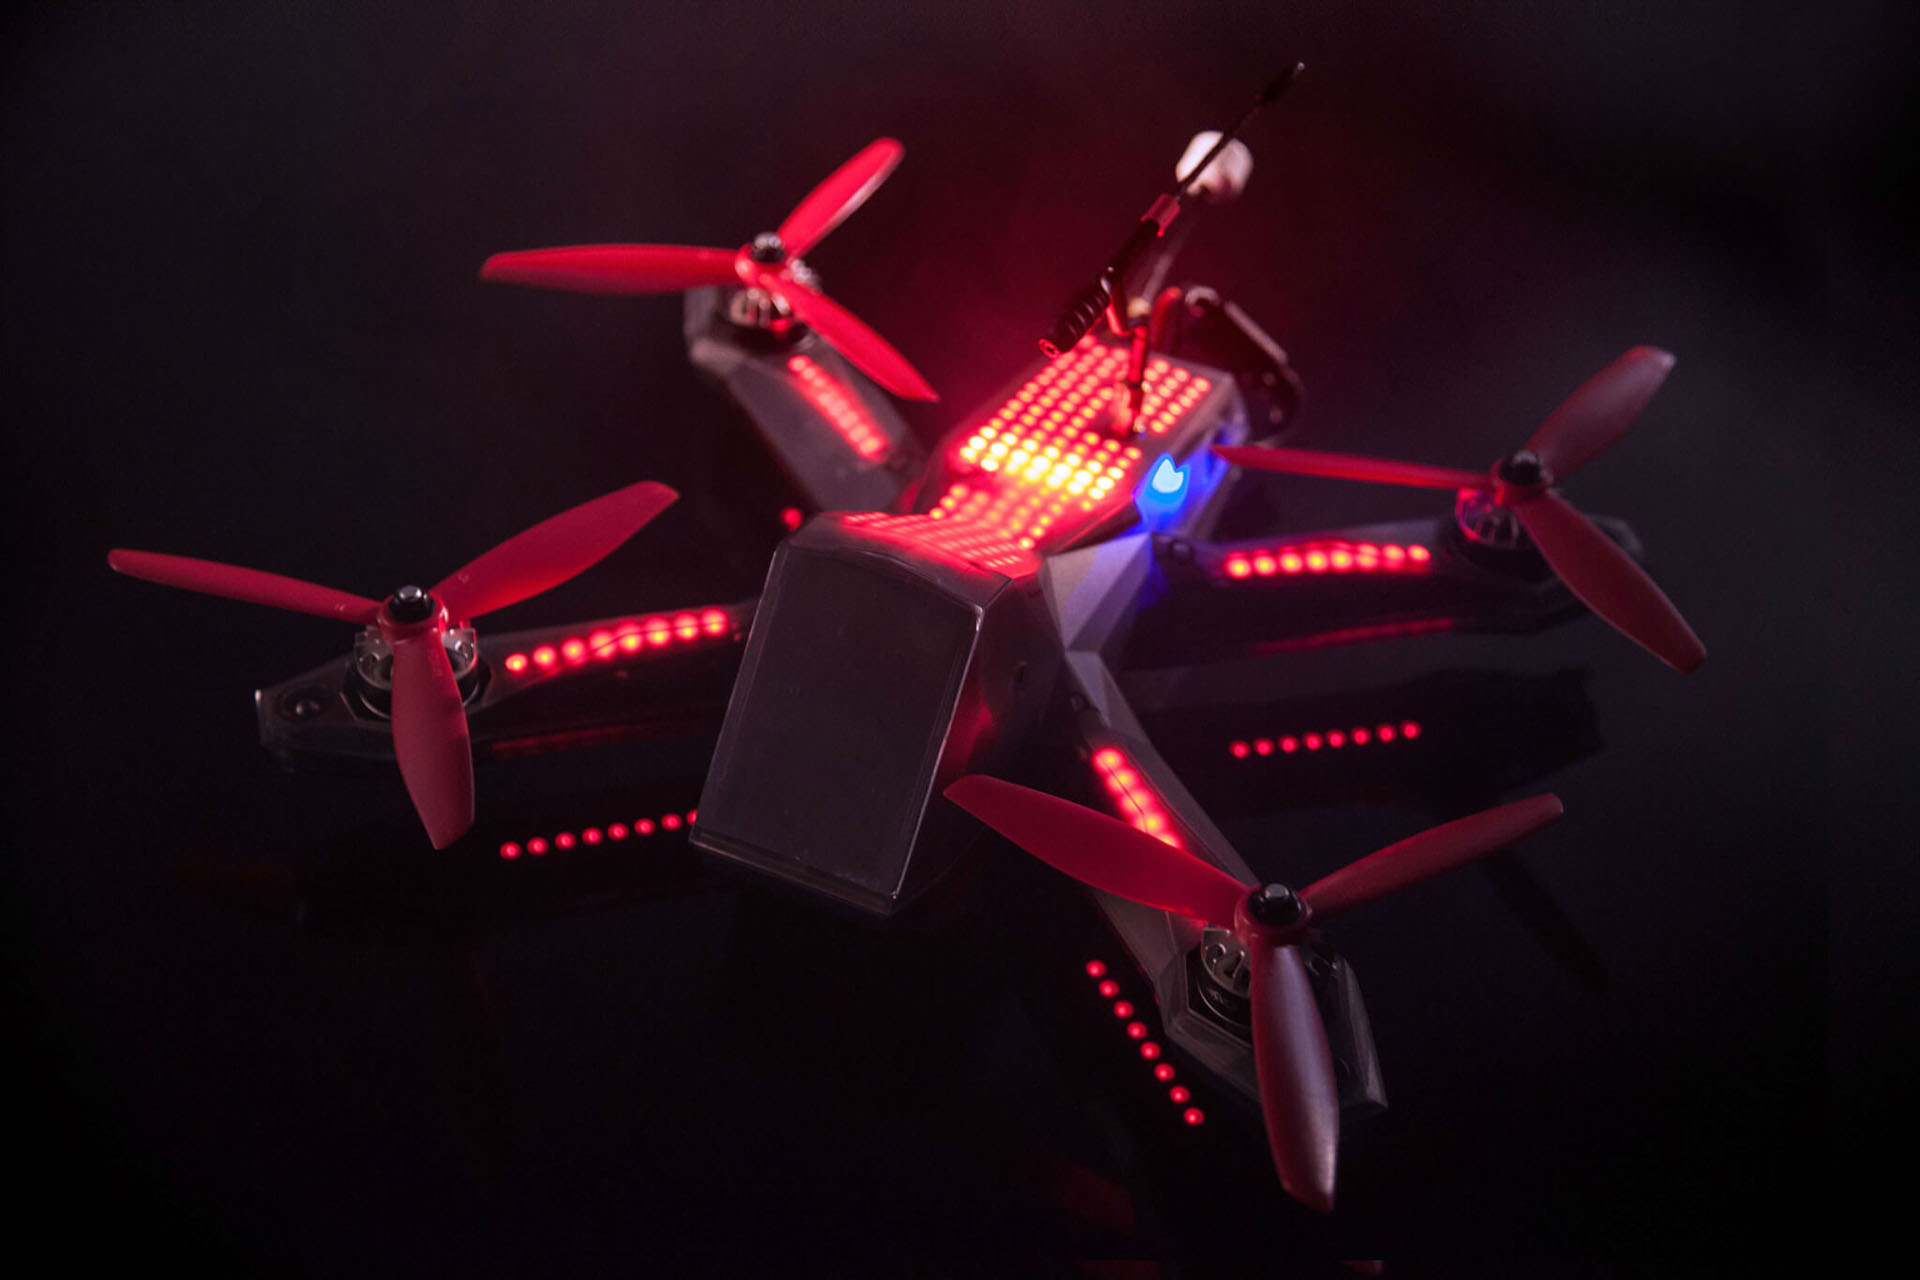
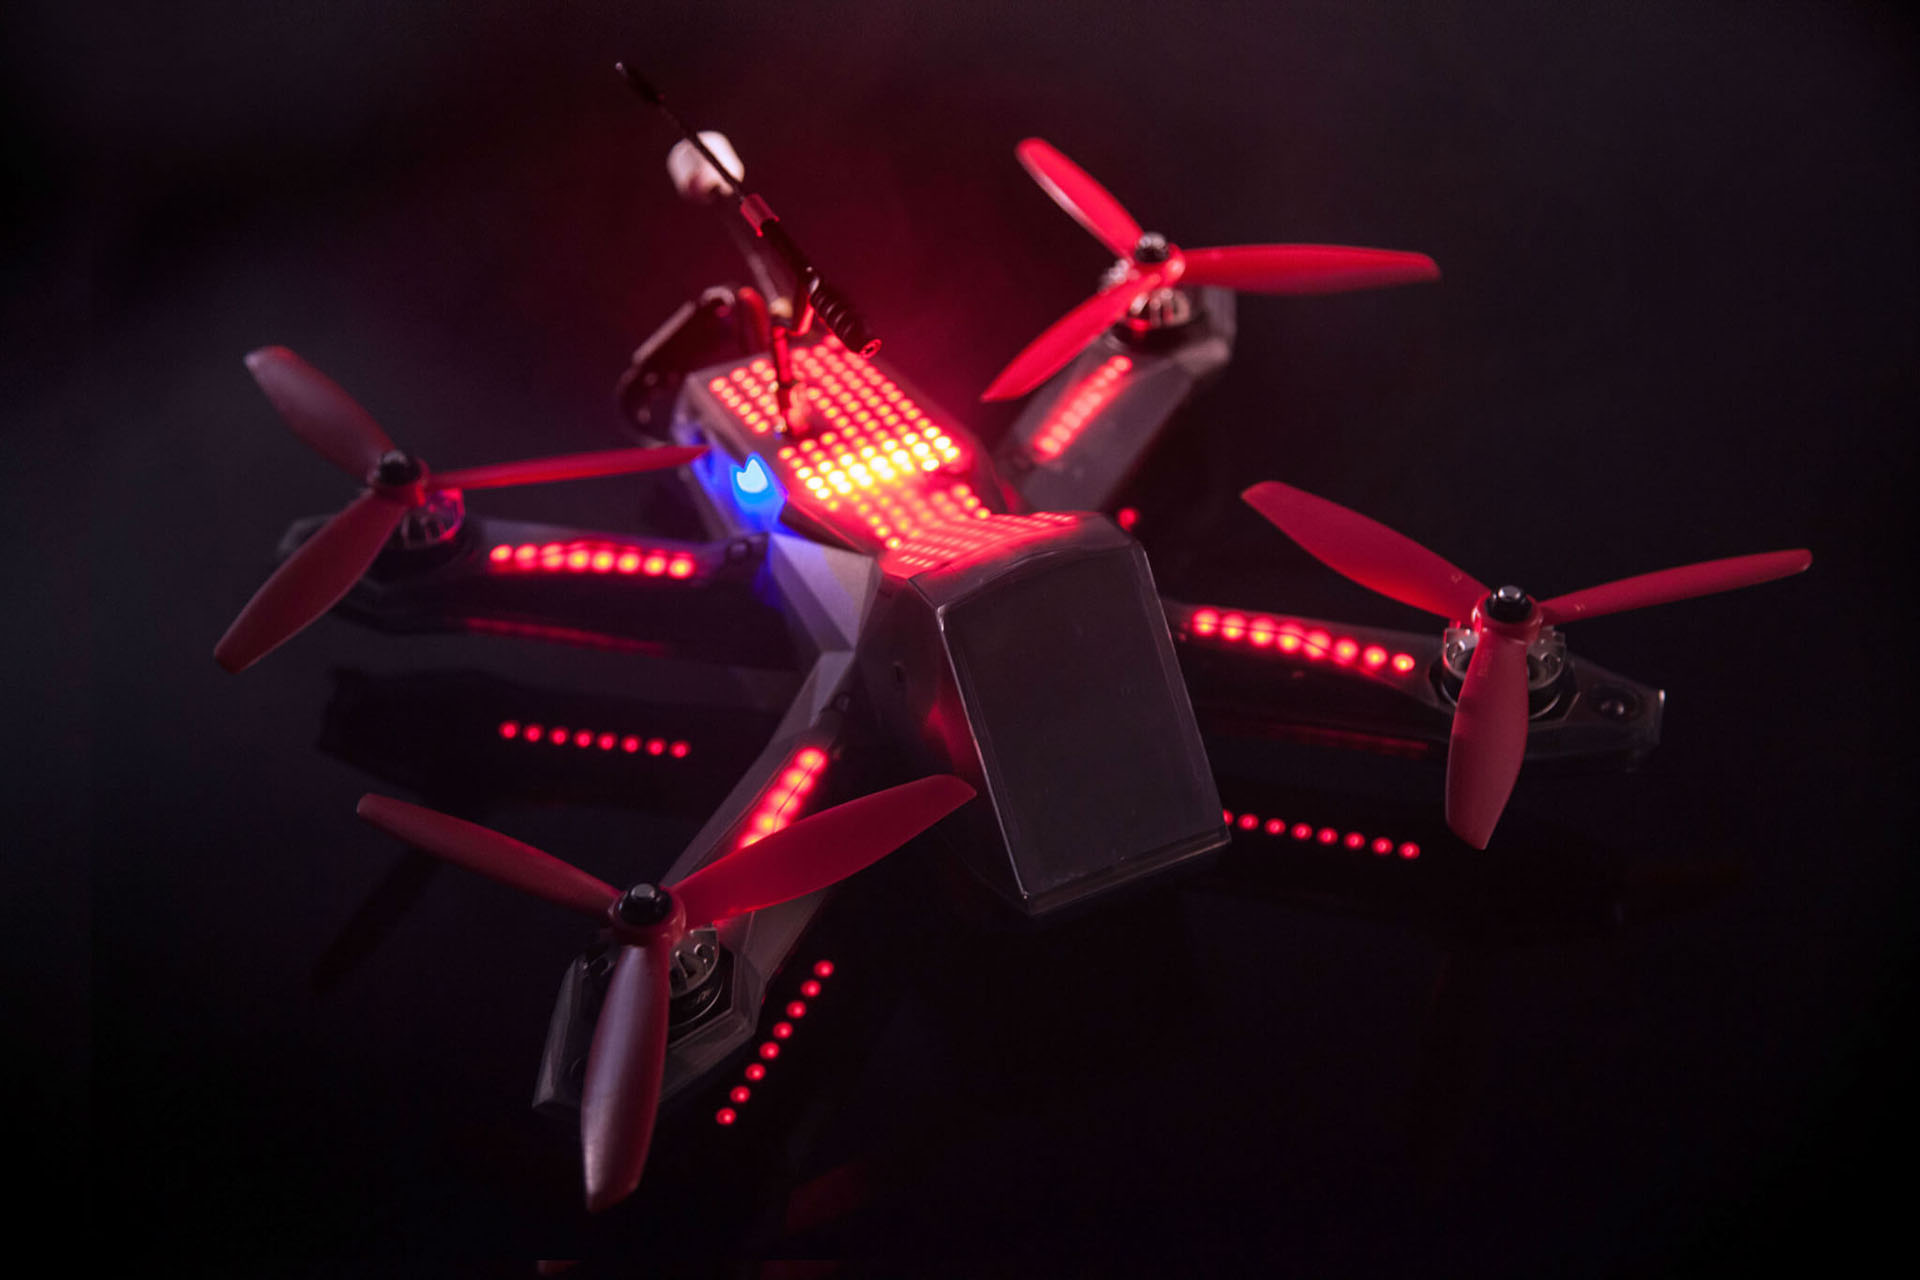
Reverse Image, update cursor, disable scrollbar

Changed region(s): [[0.0625, 0.0938, 0.9375, 0.9375], [0.6562, 0.0312, 0.6875, 0.0938], [0.3125, 0.0312, 0.3438, 0.0938]]

diff --git a/index.html b/index.html
@@ -4,7 +4,7 @@
     <meta charset="UTF-8">
     <meta http-equiv="X-UA-Compatible" content="IE=edge">
     <meta name="viewport" content="width=device-width, initial-scale=1.0">
-    <title>Document</title>
+    <title>DRL corp</title>
     <link href="style.css" rel="stylesheet">
     <meta name="keyword" content="test2, test3, test4, test5">
     <meta name="description" content="When writing a meta description, keep it between 140 and 160 characters so Google can display your entire message. Don’t forget to include your keyword!"></head>

diff --git a/style.css b/style.css
@@ -6,6 +6,7 @@ body {
     color:#fff;
     height: 100vh;
     cursor: none;
+    overflow:hidden
 }
 
 a {
@@ -144,6 +145,7 @@ button:hover {
     background-repeat: no-repeat;
     filter: contrast(110%) brightness(105%);
     
+    
 }
 
 .btn-join {
@@ -230,6 +232,5 @@ button:hover {
 }
 
 .expand {
-    transition: .5s all ease;
     background-color: rgba(247, 249, 241, 0.5) !important;
 }
